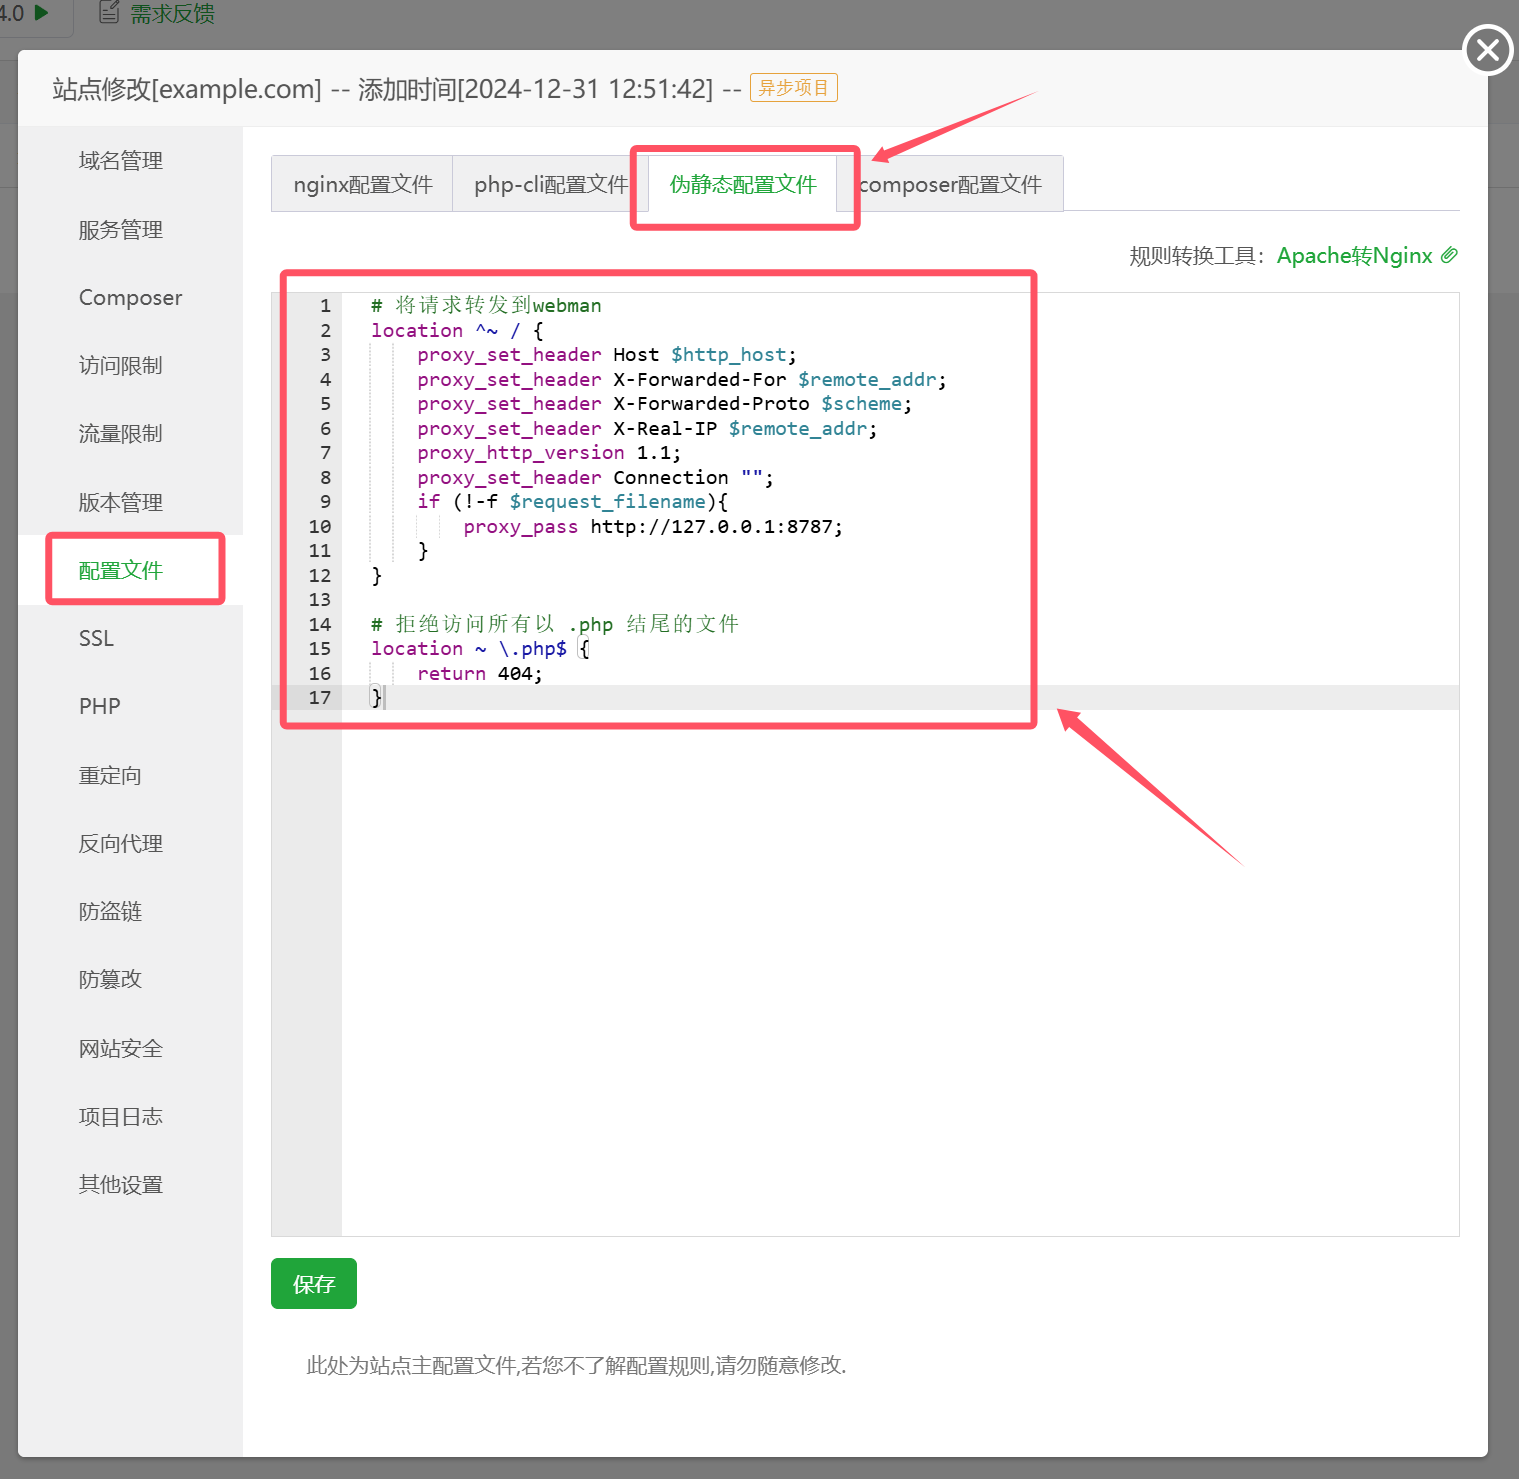
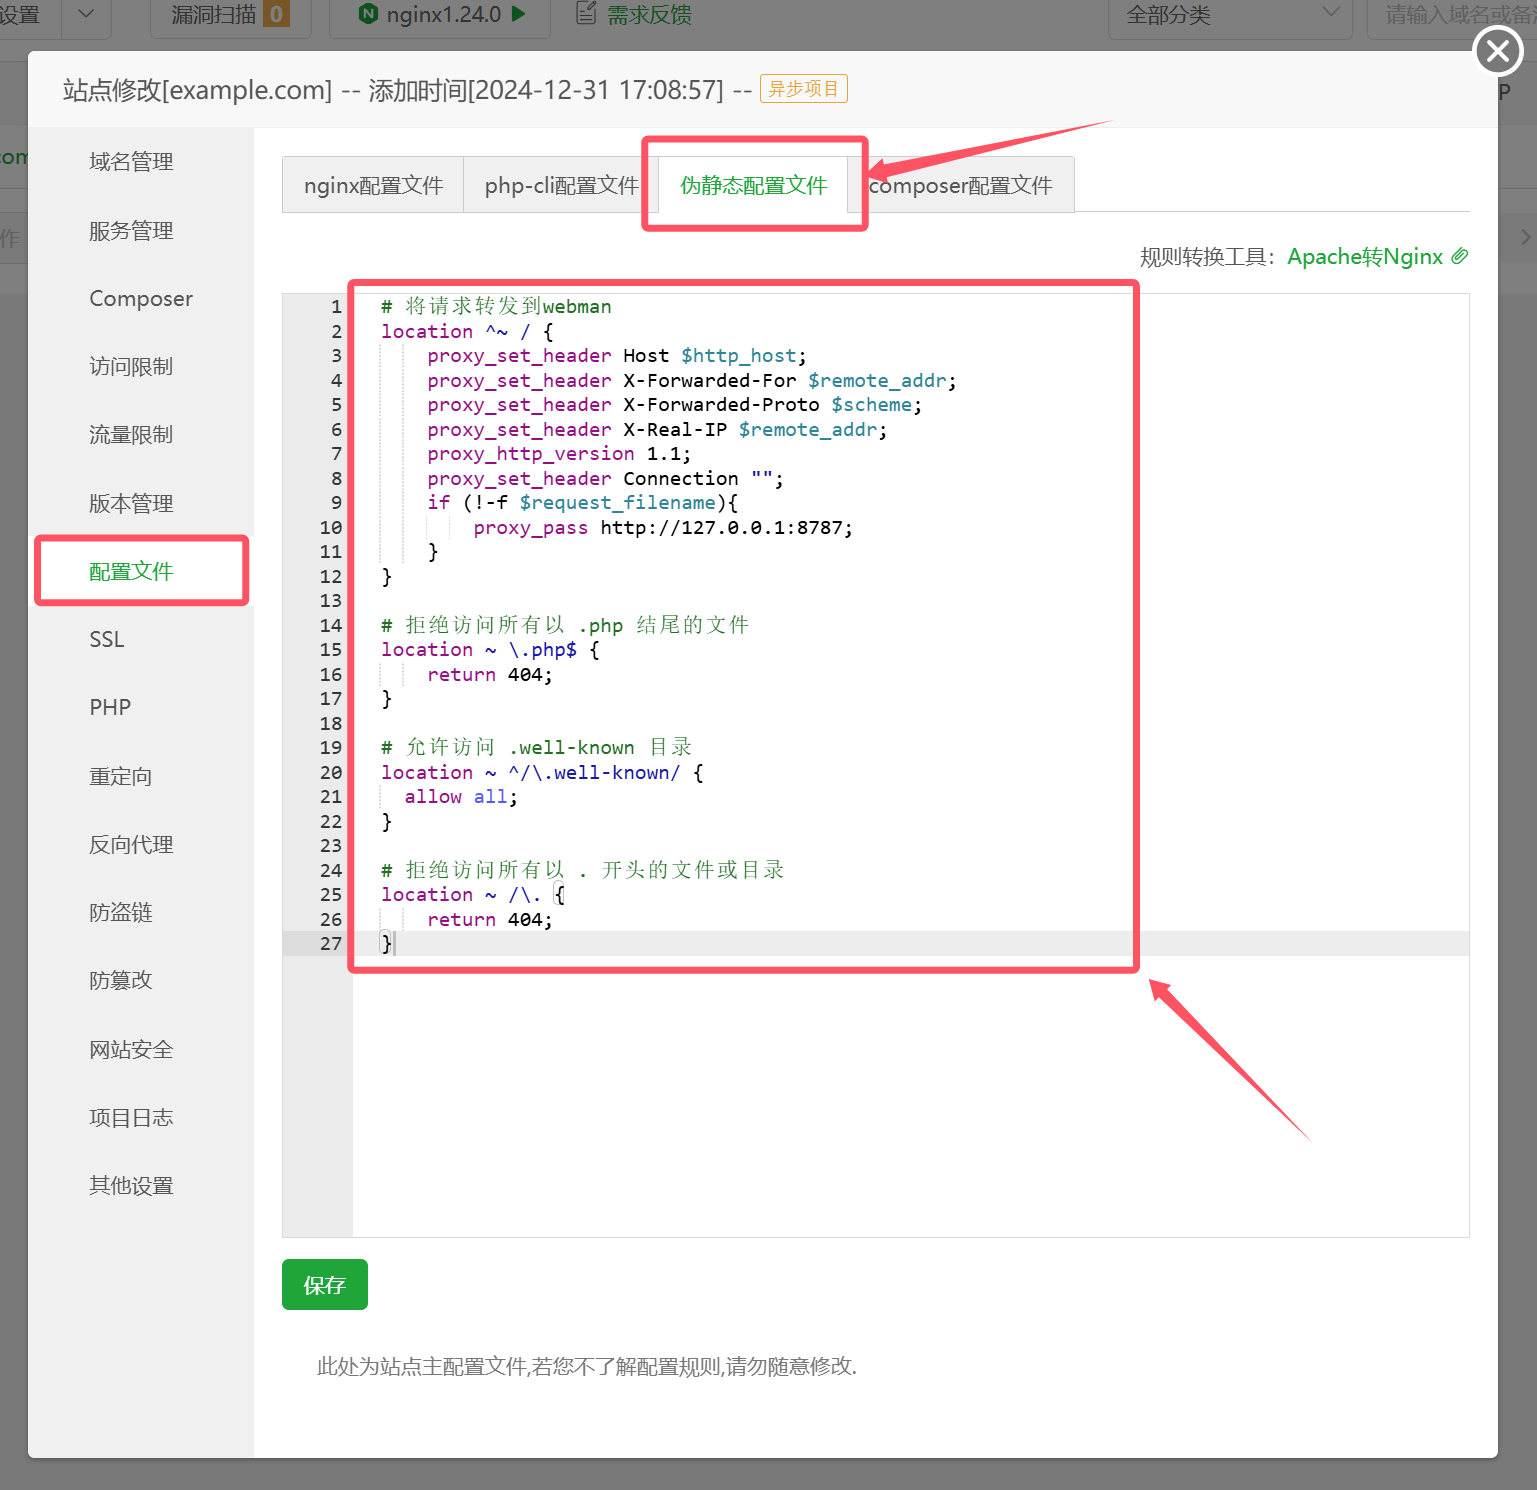
宝塔教程

diff --git a/resource/doc/zh-cn/bt-install.md b/resource/doc/zh-cn/bt-install.md
@@ -51,6 +51,16 @@ composer create-project workerman/webman
   location ~ \.php$ {
       return 404;
   }
+
+  # 允许访问 .well-known 目录
+  location ~ ^/\.well-known/ {
+    allow all;
+  }
+
+  # 拒绝访问所有以 . 开头的文件或目录
+  location ~ /\. {
+      return 404;
+  }
 ```
 
 ### 6. 给runtime可写权限
